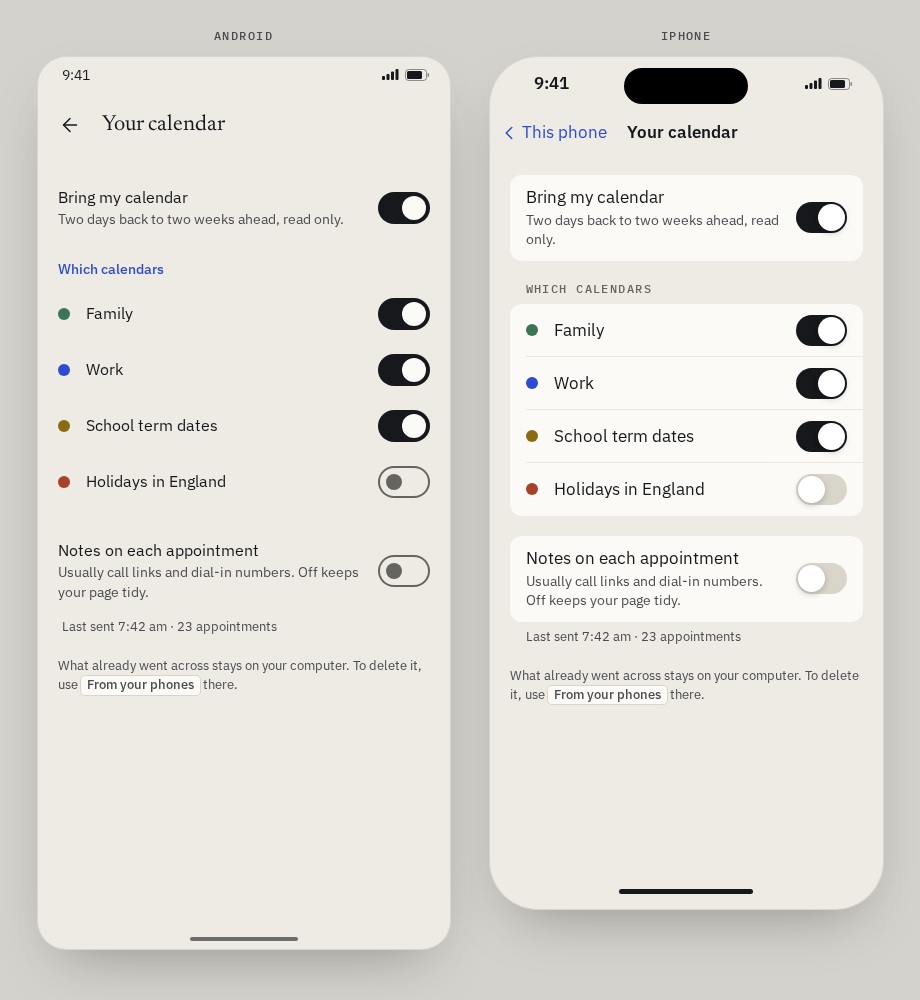
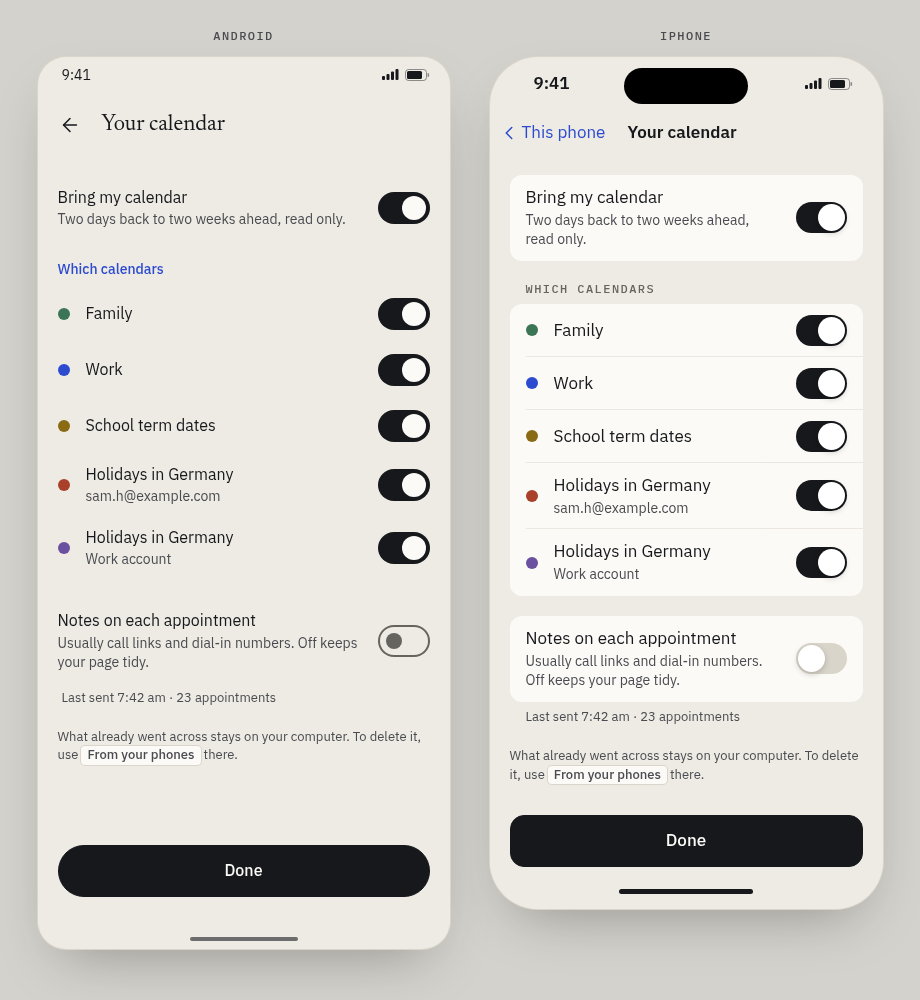
docs(design): add Done to phone settings screens

diff --git a/docs/design/mockups/phone-parity/first-release.html b/docs/design/mockups/phone-parity/first-release.html
@@ -17,11 +17,13 @@
   "restore": { "bar": "back", "title": "", "back": "Back" },
   "item": { "bar": "back", "title": "", "back": "Journal" },
   "this-phone": { "bar": "back", "title": "This phone", "back": "Today" },
-  "delete": { "bar": "modal", "title": "Delete everything", "back": "Cancel" }
+  "delete": { "bar": "modal", "title": "Delete everything", "back": "Cancel" },
+  "calendar": { "bar": "back", "title": "Your calendar", "back": "This phone" },
+  "health": { "bar": "back", "title": "Health", "back": "This phone" }
 }
 </script>
 </head>
-<body data-frame="duo" data-states="welcome start today reminder full ask mind backup saved restore item this-phone delete damaged">
+<body data-frame="duo" data-states="welcome start today reminder full ask mind backup saved restore item this-phone calendar health delete damaged">
 <main id="content">
 
   <!-- Welcome, two ways in -->
@@ -199,6 +201,44 @@
       <div class="row"><span class="rowText"><span class="rowLabel" style="color: var(--ember)">Delete everything…</span></span></div>
     </div>
   </div>
+
+  <!-- Your calendar, a phone alone -->
+  <div class="group" data-state="calendar">
+    <div class="rows"><div class="row"><span class="rowText"><span class="rowLabel">Show my calendar</span><span class="rowHint">Two days back to two weeks ahead, read only.</span></span><span class="sw"></span></div></div>
+  </div>
+  <div class="group" data-state="calendar">
+    <p class="ghead">Which calendars</p>
+    <div class="rows">
+      <div class="row"><span class="rowText"><span class="rowLabel"><span style="display:inline-block;width:10px;height:10px;border-radius:50%;background:#3B7556;margin-right:10px"></span>Rota</span></span><span class="sw"></span></div>
+      <div class="row"><span class="rowText"><span class="rowLabel"><span style="display:inline-block;width:10px;height:10px;border-radius:50%;background:#2C4BCF;margin-right:10px"></span>Personal</span></span><span class="sw"></span></div>
+      <div class="row"><span class="rowText"><span class="rowLabel"><span style="display:inline-block;width:10px;height:10px;border-radius:50%;background:#A8402A;margin-right:10px"></span>Holidays in Germany</span><span class="rowHint">maya.k@example.com</span></span><span class="sw"></span></div>
+      <div class="row"><span class="rowText"><span class="rowLabel"><span style="display:inline-block;width:10px;height:10px;border-radius:50%;background:#6B4FA0;margin-right:10px"></span>Holidays in Germany</span><span class="rowHint">Hospital</span></span><span class="sw off"></span></div>
+    </div>
+    <p class="small" style="padding-top: 6px">Every calendar starts on. Turn off any you don’t want in Nocturne.</p>
+  </div>
+
+  <!-- Health, a phone alone -->
+  <div class="group" data-state="health">
+    <div class="rows"><div class="row"><span class="rowText"><span class="rowLabel">Show health readings</span><span class="rowHint">Readings from 1 November onwards</span></span><span class="sw"></span></div></div>
+  </div>
+  <div class="group" data-state="health">
+    <p class="ghead">Which kinds</p>
+    <div class="rows">
+      <div class="row"><span class="rowText"><span class="rowLabel">Sleep</span></span><span class="sw"></span></div>
+      <div class="row"><span class="rowText"><span class="rowLabel">Steps</span></span><span class="sw"></span></div>
+      <div class="row"><span class="rowText"><span class="rowLabel">Workouts</span></span><span class="sw"></span></div>
+      <div class="row"><span class="rowText"><span class="rowLabel">Resting heart rate</span></span><span class="sw off"></span></div>
+    </div>
+    <p class="small" style="padding-top: 6px">Nocturne can’t tell what your numbers mean for your health. A doctor or nurse can.</p>
+  </div>
+
+  <!-- Kept so far, then Done -->
+  <div class="group" data-state="calendar health" style="padding-top: 8px">
+    <p class="ghead">Kept so far</p>
+    <p class="small" style="margin: 0">What Nocturne already kept stays until you delete it.</p>
+    <span class="small" style="color: var(--ember)">Delete what was kept…</span>
+  </div>
+  <div class="foot" data-state="calendar health"><span class="btn" data-kind="primary">Done</span></div>
 
   <!-- Delete everything on this phone -->
   <h1 class="stepH" data-state="delete">Delete everything on this phone?</h1>

diff --git a/docs/design/mockups/phone-apps/settings.html b/docs/design/mockups/phone-apps/settings.html
@@ -72,7 +72,8 @@
       <div class="row"><span class="cdot" style="background: #3B7556"></span><span class="rowText"><span class="rowLabel">Family</span></span><span class="sw"></span></div>
       <div class="row"><span class="cdot" style="background: #2C4BCF"></span><span class="rowText"><span class="rowLabel">Work</span></span><span class="sw"></span></div>
       <div class="row"><span class="cdot" style="background: #8A6A12"></span><span class="rowText"><span class="rowLabel">School term dates</span></span><span class="sw"></span></div>
-      <div class="row"><span class="cdot" style="background: #A8402A"></span><span class="rowText"><span class="rowLabel">Holidays in England</span></span><span class="sw off"></span></div>
+      <div class="row"><span class="cdot" style="background: #A8402A"></span><span class="rowText"><span class="rowLabel">Holidays in Germany</span><span class="rowHint">sam.h@example.com</span></span><span class="sw"></span></div>
+      <div class="row"><span class="cdot" style="background: #6B4FA0"></span><span class="rowText"><span class="rowLabel">Holidays in Germany</span><span class="rowHint">Work account</span></span><span class="sw"></span></div>
     </div>
   </div>
   <div class="group" data-state="calendar">
@@ -80,6 +81,7 @@
     <p class="gfoot">Last sent 7:42 am · 23 appointments</p>
   </div>
   <p class="small" data-state="calendar stopped revoked">What already went across stays on your computer. To delete it, use <span class="cc">From your phones</span> there.</p>
+  <div class="foot" data-state="calendar stopped revoked"><span class="btn" data-kind="primary">Done</span></div>
 </main>
 <script src="shell.js"></script>
 </body>

diff --git a/docs/design/mockups/phone-parity/index.html b/docs/design/mockups/phone-parity/index.html
@@ -50,6 +50,8 @@
     <li><a href="first-release.html?state=restore">Bring back your memory from a file</a></li>
     <li><a href="first-release.html?state=item">An item, with its private switch</a></li>
     <li><a href="first-release.html?state=this-phone">This phone</a></li>
+    <li><a href="first-release.html?state=calendar">Your calendar, with Done</a></li>
+    <li><a href="first-release.html?state=health">Health, with Done</a></li>
     <li><a href="first-release.html?state=delete">Delete everything on this phone</a></li>
     <li><a href="first-release.html?state=damaged">The memory can’t be opened</a></li>
   </ol>

diff --git a/docs/design/phone-first.md b/docs/design/phone-first.md
@@ -25,7 +25,7 @@ In `docs/design/mockups/phone-parity/`, Android and iPhone side by side.
 | A locked copy online | `copy-online.html`: `why`, `passphrase`, `on` | `copy-online-why-light.png`, `copy-online-why-dark.png`, `copy-online-passphrase-light.png`, `copy-online-on-light.png` |
 | Choosing a mind | `mind.html`: `choose`, `service`, `consent`, `apple`, `first-page` | `mind-choose-light.png`, `mind-choose-dark.png`, `mind-service-light.png`, `mind-consent-light.png`, `mind-apple-light.png`, `mind-first-page-light.png` |
 | This phone, a phone alone | `this-phone.html`: `alone` | `this-phone-alone-light.png`, `this-phone-alone-dark.png` |
-| The first release | `first-release.html`: `welcome`, `start`, `today`, `reminder`, `full`, `ask`, `mind`, `backup`, `saved`, `restore`, `item`, `this-phone`, `delete`, `damaged` | `first-release-{state}-light.png` for every state; `first-release-welcome-dark.png`, `first-release-today-dark.png`, `first-release-mind-dark.png`, `first-release-backup-dark.png`, `first-release-this-phone-dark.png` |
+| The first release | `first-release.html`: `welcome`, `start`, `today`, `reminder`, `full`, `ask`, `mind`, `backup`, `saved`, `restore`, `item`, `this-phone`, `calendar`, `health`, `delete`, `damaged` | `first-release-{state}-light.png` for every state; `first-release-welcome-dark.png`, `first-release-today-dark.png`, `first-release-mind-dark.png`, `first-release-backup-dark.png`, `first-release-this-phone-dark.png` |
 
 ## What a phone alone is
 
@@ -291,7 +291,9 @@ the line has no meaning when the phone is the home. Keys are the companion's.
 | Health rationale | `phone.rationale.keeping` | "Your computer keeps readings until you delete them there." | "Nocturne keeps readings on this phone until you delete them." |
 | Health rationale | `phone.rationale.stopping` | "…To delete what went across, use {fromYourPhones} on your computer." | "Turn Health off in Nocturne’s {thisPhone}, or take the permission back in Health Connect. To delete readings already kept, use {deleteReadings} in {thisPhone}." |
 | Calendar and Health screens, delete | (new) | | The delete screens in the copy table: "Delete what Nocturne kept from your calendar?" or "Delete the health readings Nocturne kept?", with an "Also stop…" tick, on by default as on the computer, and the line that the phone's own calendar or Health isn't touched |
-| Calendar and Health screens | `phone.sources.already` | "What already went across stays on your computer. To delete it, use {fromYourPhones} there." | "What Nocturne already kept stays until you delete it." with "Delete what was kept…", opening the computer's From your phones delete preview worded for this phone |
+| Calendar screen | Switch, note, last sent | "Bring my calendar" / "Every calendar starts on. Turn off any you don’t want on your page." / "Last sent {time} · {count} appointments" | "Show my calendar" / "Every calendar starts on. Turn off any you don’t want in Nocturne." / not shown |
+| Health screen | Switch, last sent | "Bring health readings" / "Last sent {time} · {count} readings" | "Show health readings" / not shown |
+| Calendar and Health screens | `phone.sources.already` | "What already went across stays on your computer. To delete it, use {fromYourPhones} there." | A quiet group above "Done", headed "Kept so far": "What Nocturne already kept stays until you delete it." and a small link in the careful colour, "Delete what was kept…", opening the delete screens. "Done", the main button, is the last thing on the screen |
 | Calendar screen | `phone.calendar.stoppedOnComputer.*` | "Your computer isn’t taking your calendar from this phone." | Not shown |
 | Journal | `phone.journal.empty.body` | "Anything you keep, here or on your computer, shows up here." | "Anything you keep shows up here." |
 | Check-in saved | `phone.journal.checkin.from` | "Check-in · {time} · kept from {name}" | "Check-in · {time}" |
@@ -388,6 +390,8 @@ kit of the other mockups. Names and data are fictional.
 | `restore` | Bring back your memory from a file | `first-release-restore-light.png` |
 | `item` | An item's page with its private switch | `first-release-item-light.png` |
 | `this-phone` | This phone in the first release | `first-release-this-phone-light.png`, `first-release-this-phone-dark.png` |
+| `calendar` | Your calendar on a phone alone: a second line for calendars that share a name, "Kept so far", then "Done" | `first-release-calendar-light.png`, `first-release-calendar-dark.png` |
+| `health` | Health on a phone alone, with "Kept so far" and "Done" | `first-release-health-light.png` |
 | `delete` | Delete everything on this phone | `first-release-delete-light.png` |
 | `damaged` | The memory can't be opened | `first-release-damaged-light.png` |
 
@@ -927,6 +931,8 @@ New strings only. Strings from Online answers, backup and the phone apps are mar
 | Voice, iPhone purpose | "Nocturne turns your voice notes into words on this iPhone so you can find them. They never leave it." |
 | Voice, This phone row | "Voice notes in words" / "Off" / "Turn on" / "Off in your phone’s settings" / "Open phone settings" |
 | Find, clear | "Clear" |
+| Settings screens | "Done" / "Kept so far" / "What Nocturne already kept stays until you delete it." / "Delete what was kept…" |
+| Calendar and Health switches | "Show my calendar" / "Show health readings" / "Every calendar starts on. Turn off any you don’t want in Nocturne." |
 | Give it a mind | "Give Nocturne a mind" / "A mind reads what you keep, writes your page each morning and answers your questions. It can run on a computer of your own." / "1. Install Nocturne on your computer." / "2. Choose Add a phone there, and scan its code from this phone." / "3. Your memory moves to the computer, and this phone works with it." / "Scan the code" / "Not now" |
 | Backup, row | "Save a backup…" / "Last backup {day}" / "No backup yet" |
 | Backup, form | "Save a backup" / "One file with everything you kept, locked with a passphrase you choose. Keep it somewhere other than this phone." |

diff --git a/docs/design/phone-apps.md b/docs/design/phone-apps.md
@@ -384,11 +384,19 @@ settings screen, grouped as each platform groups settings.
 | Switch | "Bring my calendar" |
 | Hint | "Two days back to two weeks ahead, read only." |
 | List heading | "Which calendars" |
-| Each row | The calendar's name and colour dot as the phone shows them, with a switch |
+| Each row | The calendar's name and colour dot as the phone shows them, with a switch. When two calendars share a name, each also shows its account as a second line, as the phone names it ("Holidays in Germany" / "maya.k@example.com") |
 | Note under the list | "Every calendar starts on. Turn off any you don’t want on your page." |
 | Notes switch | "Notes on each appointment" / "Usually call links and dial-in numbers. Off keeps your page tidy." |
 | Last sent | "Last sent {time} · {count} appointments" |
 | Already sent | "What already went across stays on your computer. To delete it, use {fromYourPhones} there." |
+| At the bottom | "Done", the main button, which goes back to This phone |
+
+Choices save as they are made: there is no Save or Cancel, and "Done" only goes back. It is there so
+the way out is at the bottom, where the thumb is, as well as the back arrow at the top. On a phone
+that holds its own memory, the last part before "Done" is a quiet group "Kept so far", holding the
+delete link, so a destructive link is never the last thing on the screen ([A phone of its
+own](phone-first.md#reused-screens-worded-for-a-phone-alone)). Every phone settings screen that
+changes choices follows this: Your calendar and Health.
 
 Turning "Bring my calendar" off stops sending at once and says "Stopped. Nothing more goes across."
 The phone cannot delete what the computer already has, as a phone cannot delete anything.

diff --git a/docs/design/phone-parity.md b/docs/design/phone-parity.md
@@ -39,7 +39,7 @@ of the design. All names and data are fictional.
 | Screen | File and states | Page |
 |---|---|---|
 | First run on a phone, and Today with no mind | `first-run.html`: `welcome`, `start`, `today`, `ask` | [Phone first](phone-first.md#screens) |
-| The first release of a phone alone | `first-release.html`: `welcome`, `start`, `today`, `reminder`, `full`, `ask`, `mind`, `backup`, `saved`, `restore`, `item`, `this-phone`, `delete`, `damaged` | [Phone first](phone-first.md#mockups-for-the-first-release) |
+| The first release of a phone alone | `first-release.html`: `welcome`, `start`, `today`, `reminder`, `full`, `ask`, `mind`, `backup`, `saved`, `restore`, `item`, `this-phone`, `calendar`, `health`, `delete`, `damaged` | [Phone first](phone-first.md#mockups-for-the-first-release) |
 | A locked copy online | `copy-online.html`: `why`, `passphrase`, `on` | [Phone first](phone-first.md#a-locked-copy-online) |
 | Choosing a mind | `mind.html`: `choose`, `service`, `consent`, `apple`, `first-page` | [Phone first](phone-first.md#choosing-a-mind) |
 | Joining a household, and a passphrase for making it your home | `household.html`: `found`, `see`, `passphrase`, `words`, `joined` | [Household](household-server.md#joining) |

diff --git a/docs/logs/2026-11/23-added-done-to-phone-settings.md b/docs/logs/2026-11/23-added-done-to-phone-settings.md
@@ -1,0 +1,16 @@
+---
+type: Log Entry
+title: "Added Done to the phone's calendar and Health settings."
+description: "The phone's calendar and Health settings end with a Done button, a phone alone keeps its delete link in a quiet Kept so far group above it, and calendars that share a name show their account."
+tags: [log, update]
+kind: Changed
+status: stable
+---
+
+[Nocturne on Android and iPhone](/design/phone-apps.md#9-this-phone) and [Health from the
+phone](/design/phone-health.md#on-the-phone) end the calendar and Health settings with "Done", the
+main button, which goes back; choices still save as they are made. On a phone alone, [Nocturne on a
+phone of its own](/design/phone-first.md#reused-screens-worded-for-a-phone-alone) moves "Delete
+what was kept…" into a quiet "Kept so far" group above "Done", so a destructive link is never the
+last thing on the screen. Calendars that share a name show their account as a second line. The
+affected mockups are re-rendered.

diff --git a/docs/design/phone-health.md b/docs/design/phone-health.md
@@ -306,6 +306,7 @@ This phone's "Health" row opens:
 | Last sent | "Last sent {time} · {count} readings" |
 | Fixed line | "Nocturne can’t tell what your numbers mean for your health. A doctor or nurse can." |
 | Already sent | "What already went across stays on your computer. To delete it, use {fromYourPhones} there." |
+| At the bottom | "Done", the main button, which goes back to This phone. Choices save as they are made ([Your calendar](phone-apps.md#9-this-phone)) |
 | Taken back | "Health is off in {Health Connect or the Health app}." and "Nothing is read until you turn it back on there." with "Open Health Connect" on Android |
 
 ## On the computer
